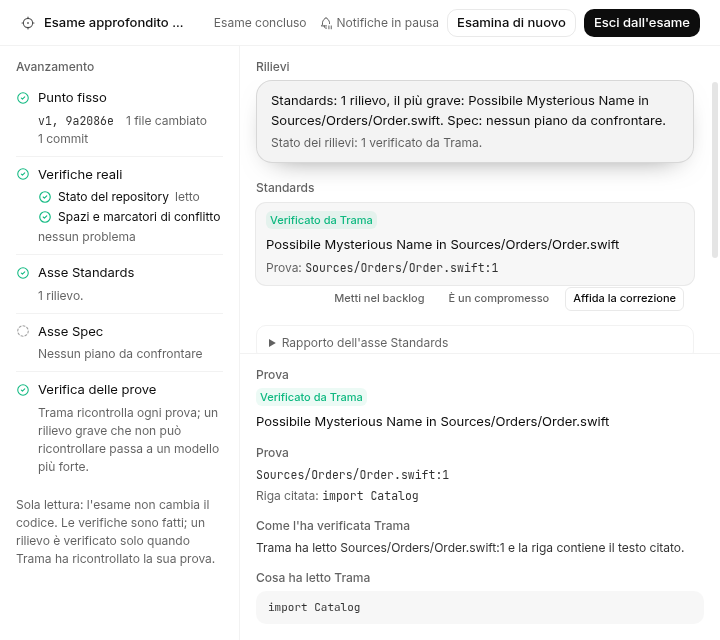
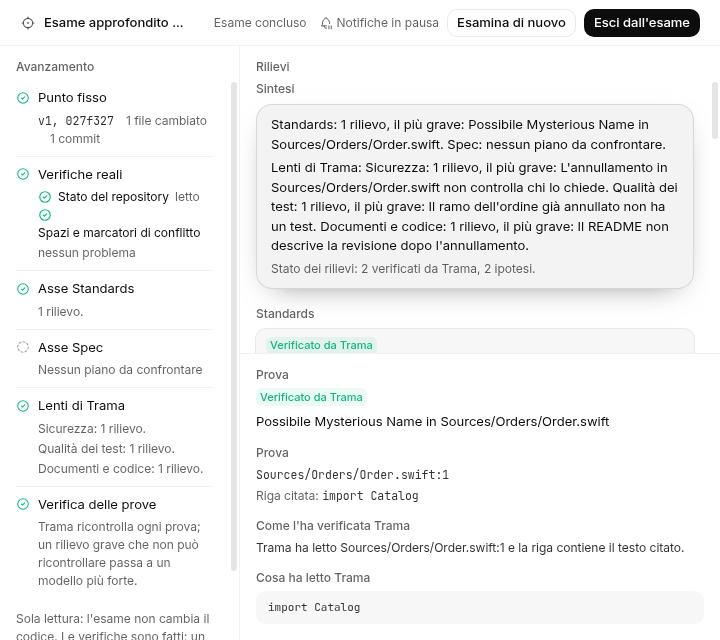
docs: refresh the focus mode screenshots with Trama's lenses

diff --git a/docs/verifiche/f03-esame-a-tutto-schermo-2026-09-28.md b/docs/verifiche/f03-esame-a-tutto-schermo-2026-09-28.md
@@ -15,7 +15,7 @@ Controllo di #127 (specifica #124) sul branch `feature/issue-127-focus-mode-full
 
 - Test: `app/src/main/core/focusScope.test.ts` (diff dal punto fisso senza file sensibili, diff e commit limitati al modulo, punto fisso inesistente, diff vuoto anche per un modulo, testo rifiutato, proposte di punto fisso), `app/src/main/core/audit.test.ts` (un esame alla volta per bersaglio, spec dalle issue citate nei commit, binding del modulo con la skill originale, nessuna frase della skill ripetuta), `app/src/main/focusAudit.integration.test.ts` (controller reale con il server di prova: errori prima dell'avvio, esame del modulo da `HEAD~1`, verifiche sul checkout, assi nella cartella del progetto, notifiche trattenute e consegnate all'uscita, un incarico autorizzato che finisce mentre l'esame è aperto).
 - ui-check: l'esame del candidato ora si apre a tutto schermo e si chiude con "Esci dall'esame"; il nuovo passo F03 apre un progetto con un tag `v1` e un commit sul modulo Orders, prova il punto fisso inesistente e il modulo senza cambiamenti, apre l'esame del modulo e controlla le tre colonne, l'uscita a destra, la prova verificata, poi l'esame dell'intero progetto. Le tre colonne restano dentro la finestra senza scorrimento orizzontale a 1600x1000, 1280x820, 1024x700 e 720x640 (la misura minima della finestra).
-- Schermate in `docs/images/f03/`, in chiaro e in scuro. "Prima" da origin/main 7e13d3f: mappa (`mappa-prima-*`), modulo (`modulo-prima-*`), esame del candidato nell'ispettore (`esame-candidato-prima-*`). "Dopo" da questo branch riallineato con origin/main dd29be34 (passi `31a` a `31f` di ui-check): mappa e modulo con il nuovo pulsante (`mappa-dopo-*`, `modulo-dopo-*`), errori della finestra di scelta (`punto-fisso-inesistente-*`, `diff-vuoto-*`), esame del modulo a tutto schermo alle quattro misure (`esame-modulo-<misura>-*`), esame dell'intero progetto (`esame-progetto-*`), esame del candidato a tutto schermo (`esame-candidato-dopo-*`).
+- Schermate in `docs/images/f03/`, in chiaro e in scuro. "Prima" da origin/main 7e13d3f: mappa (`mappa-prima-*`), modulo (`modulo-prima-*`), esame del candidato nell'ispettore (`esame-candidato-prima-*`). "Dopo" da questo branch riallineato con origin/main ff3d9952 (passi `31a` a `31f` di ui-check): mappa e modulo con il nuovo pulsante (`mappa-dopo-*`, `modulo-dopo-*`), errori della finestra di scelta (`punto-fisso-inesistente-*`, `diff-vuoto-*`), esame del modulo a tutto schermo alle quattro misure (`esame-modulo-<misura>-*`), esame dell'intero progetto (`esame-progetto-*`), esame del candidato a tutto schermo (`esame-candidato-dopo-*`).
 - Il progetto del test F03 e quello del passo F03 di ui-check non hanno `Package.swift`: il server di prova esegue davvero i comandi delle verifiche, e su una macchina con Swift l'esame compilerebbe il pacchetto prima di aprire gli assi (causa del timeout in CI, riprodotta con un finto `swift` lento). Per questo le schermate "dopo" mostrano solo le verifiche di git.
 
 Non verificato: un'esecuzione reale di Codex. Il server di prova non è un modello e le sue risposte non sono evidenze. Le notifiche di sistema sono provate nel controller con un host di prova, non con il centro notifiche del sistema operativo.
